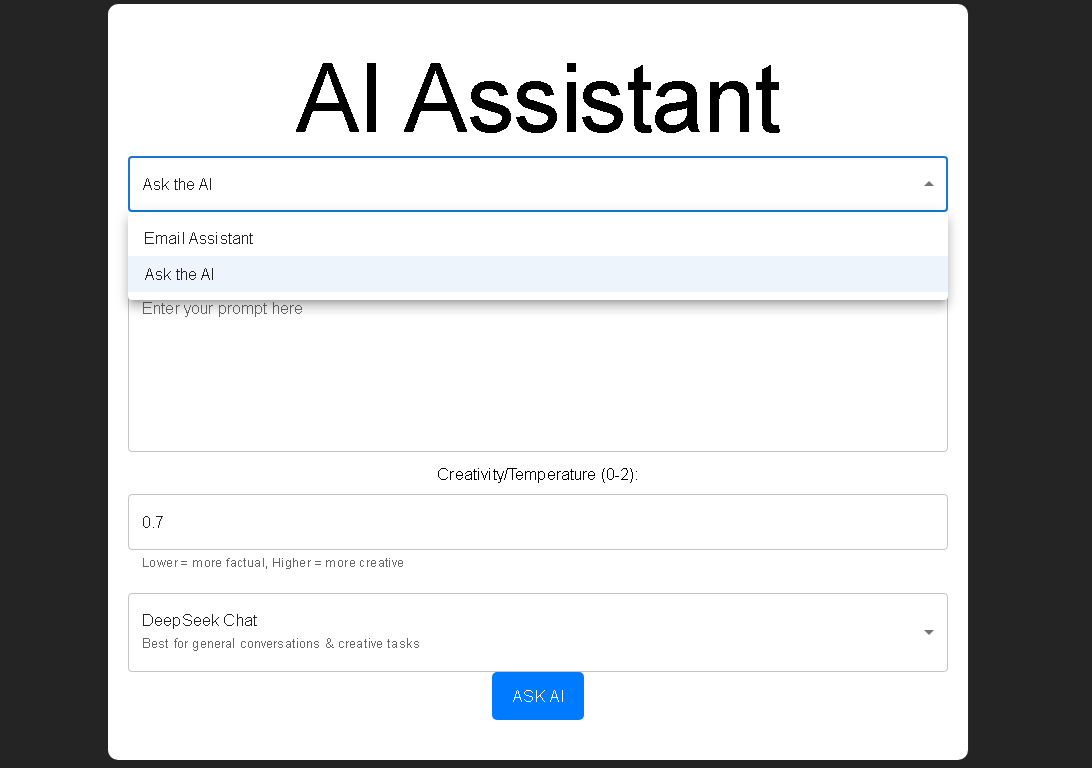
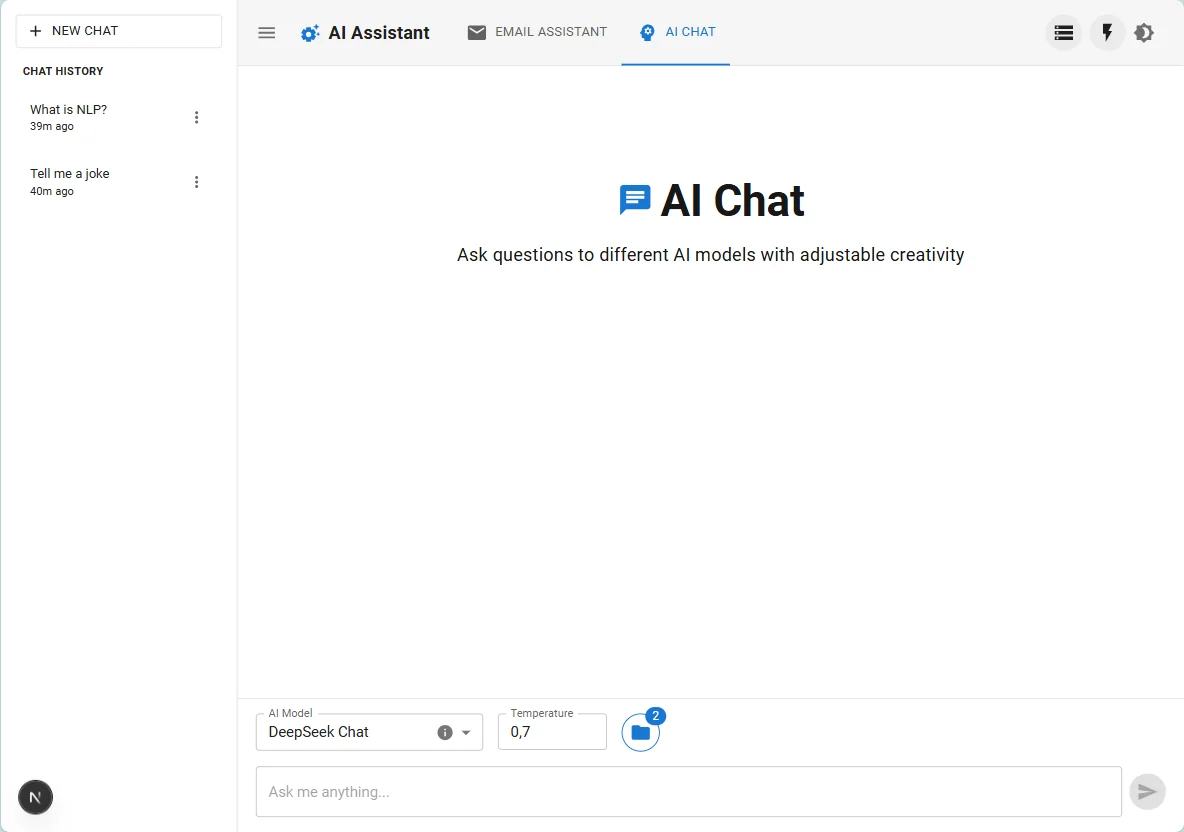
chore: updated new info on my projects and added new images

diff --git a/src/features/portfolio/projects/data.ts b/src/features/portfolio/projects/data.ts
@@ -14,10 +14,10 @@ const projectsData = [
       "Sass",
       "Styled-components",
       "Prop-types",
-      "Mui Material",
+      "Mui",
       "HeroUI",
       "Swiper",
-      "Firebase Authentication",
+      "Firebase Auth",
       "Firebase Firestore",
     ],
     linktosite: "https://github.com/SebuBergman/EcoHub",
@@ -29,24 +29,50 @@ const projectsData = [
   },
   {
     id: 2,
+    title: "AI Assistant",
+    img: "/AI_assistant.webp",
+    alt: "screenshot of The email assistant application",
+    desc: "A modern chat-based AI platform inspired by apps like ChatGPT and Claude. Users can chat with 13 different models, view pricing and ideal-use tooltips, adjust temperature, switch light/dark mode, enable Temporary Chat, toggle RAG, upload/delete PDFs, select embedded docs for hybrid search, use keyword search with prompts, and manage auto-titled chat history",
+    aboutProject:
+      "This project frontend was built with: Next.js, TypeScript, MUI, Axios, ioredis, react-markdown, streamdown and it's backend with: Python, FastAPI, LangChain, Milvus, Tavily Search, RESTful API, OpenAI/Anthropic/DeepSeek APIs. This project is now merged with my RAG Agent project",
+    tags: [
+      "Next.js",
+      "TypeScript",
+      "MUI",
+      "Python",
+      "FastAPI",
+      "LangChain",
+      "Axios",
+      "Redis",
+      "Milvus",
+      "PostgreSQL",
+    ],
+    linktosite: "https://github.com/SebuBergman/AI_assistant_frontend",
+    youtubeID: "",
+    aboutModal:
+      "A modern chat-based AI platform inspired by apps like ChatGPT and Claude. Users can chat with 13 models, view pricing/usage tooltips, adjust temperature, switch light/dark mode, enable Temporary Chat, toggle RAG, upload/delete PDFs, select embedded docs for hybrid search, use keyword search + prompt, and manage auto-titled chat history. Front-end: Next.js, TypeScript, MUI, Axios, ioredis, react-markdown, streamdown. Backend: Python, FastAPI, LangChain, Milvus, Tavily Search, RESTful API, OpenAI/Anthropic/DeepSeek APIs",
+    modalLink: "Visit Github",
+    imageSize: "85%",
+  },
+  {
+    id: 3,
     title: "RAG Agent",
     img: "/rag_agent.webp",
     alt: "screenshot of The RAG Agent application",
-    desc: "Built a RAG (Retrieval-Augmented Generation) agent using Python, FastAPI, Hugging Face, and OpenAI. Processes PDFs, performs semantic search with MongoDB embeddings, and delivers real-time, context-aware answers through a front-end interface.",
+    desc: "I developed a RAG (Retrieval-Augmented Generation) agent using Python, FastAPI, OpenAI, and React/TypeScript for the front-end interface. This system processes PDF documents, conducts semantic searches using embeddings generated by the OpenAI API, which are then stored in Milvus. The setup delivers real-time, context-aware answers to users.",
     aboutProject:
-      "This project was built with Python, FastAPI, MongoDB and React / TypeScript (frontend), and OpenAI API integration.",
+      "This project is built with Python and FastAPI on the backend, leveraging Milvus for efficient embedding storage and retrieval, alongside React/TypeScript for the frontend interface.",
     tags: [
       "React",
       "TypeScript",
       "Python",
       "FastAPI",
-      "MongoDB",
+      "Milvus",
       "Amazon S3",
       "Retrieval-Augmented Generation",
-      "Hugging Face Transformers",
       "OpenAI API",
-      "Semantic Search / Embeddings",
-      "Keyword Searach",
+      "Vector Search",
+      "Keyword Search",
       "Document Upload",
       "PDF Processing",
       "Langchain",
@@ -55,25 +81,9 @@ const projectsData = [
     linktosite: "https://github.com/SebuBergman/RAG-Project-frontend",
     youtubeID: "",
     aboutModal:
-      "Developed a Retrieval-Augmented Generation (RAG) agent using Python, FastAPI, Hugging Face, and OpenAI. The system processes uploaded PDFs—stored in Amazon S3—by splitting them into sentences and generating embeddings via Hugging Face’s sentence transformer API. It performs semantic search over these embeddings using MongoDB, retrieving relevant context to generate accurate, real-time answers with OpenAI. A front-end interface allows seamless user interaction through a RESTful API.",
+      "I developed a RAG (Retrieval-Augmented Generation) agent using Python, FastAPI, OpenAI, and React/TypeScript for the front-end interface. This system processes PDF documents, conducts semantic searches using embeddings generated by the OpenAI API, which are then stored in Milvus. The setup delivers real-time, context-aware answers to users.",
     modalLink: "Visit Github",
     imageSize: "75%",
-  },
-  {
-    id: 3,
-    title: "AI Assistant",
-    img: "/AI_assistant.webp",
-    alt: "screenshot of The email assistant application",
-    desc: "A GenAI-powered app for rewriting and summarizing emails in tones like professional, friendly, or persuasive. It also includes a versatile AI assistant where you can submit custom prompts for a wide range of tasks. The app features advanced prompt engineering for tone control, email intent recognition, and dynamic AI model selection. Python, FastAPI, React, TypeScript, OpenAI API",
-    aboutProject:
-      "This project was built with Python, FastAPI, React, TypeScript, and OpenAI API integration.",
-    tags: ["React", "TypeScript", "Python", "FastAPI", "OpenAI API", "Axios"],
-    linktosite: "https://github.com/SebuBergman/AI_assistant_frontend",
-    youtubeID: "",
-    aboutModal:
-      "This GenAI-powered app rewrites and summarizes emails in user-selected tones (professional, friendly, persuasive) and includes an AI assistant for custom prompts—leveraging multiple AI models for broader tasks. Built with FastAPI, React, TypeScript, and OpenAI, it uses advanced prompt engineering for tone control, email intent recognition, and dynamic model adaptation. A seamless all-in-one tool to supercharge productivity.",
-    modalLink: "Visit Github",
-    imageSize: "85%",
   },
   {
     id: 4,
@@ -158,13 +168,21 @@ const projectsData = [
     title: "leffakirjasto",
     img: "/leffakirjasto.webp",
     alt: "screenshot of leffakirjasto application",
-    desc: "This is a personal project for a android app which you can add movies and tv shows to a firebase firestore and search for movies using the MovieDB API.",
-    aboutProject: "This app was built with React Native for android",
-    tags: ["React Native", "TypeScript", "Redux", "Firebase", "Expo"],
+    desc: "This is a personal project where I developed an Android app using React and TypeScript to manage collections of movies, TV shows, books, and vinyls in Firebase Firestore with authentication for user login. The app integrates the MovieDB API for movie searches and features pages for TV shows, books, and vinyls. It includes a randomizer to select media at random and a countdown feature.",
+    aboutProject: "",
+    tags: [
+      "React",
+      "TypeScript",
+      "Redux",
+      "Firebase Auth",
+      "Firebase Firestore",
+      "Firebase Storage",
+      "MovieDB API",
+    ],
     linktosite: "https://github.com/SebuBergman/leffakirjasto",
     youtubeID: "dtqt1ruM7eE",
     aboutModal:
-      "This personal project is an Android app built with React Native. It allows users to search for movies using the MovieDB API and add them to a Firebase Firestore database. Additionally, users can add TV shows, specify a custom number of seasons, and keep track of their ownership status",
+      "This is a personal project where I developed an Android app using React and TypeScript to manage collections of movies, TV shows, books, and vinyl records in Firebase Firestore. The app utilizes Firebase Authentication for secure user login, Firestore storage for data management, and integrates the MovieDB API for movie searches. Key features include: Add and search for movies, display TV shows with season count information, add books and their cover images, add vinyl records and their cover images, select a random media item to read, watch, or listen to and track upcoming events and past dates for reference. The app's main idea is to store the details of physical media collections (movies, TV shows, books, and vinyls) owned by users.",
     modalLink: "Visit github",
     imageSize: "100%",
   },
